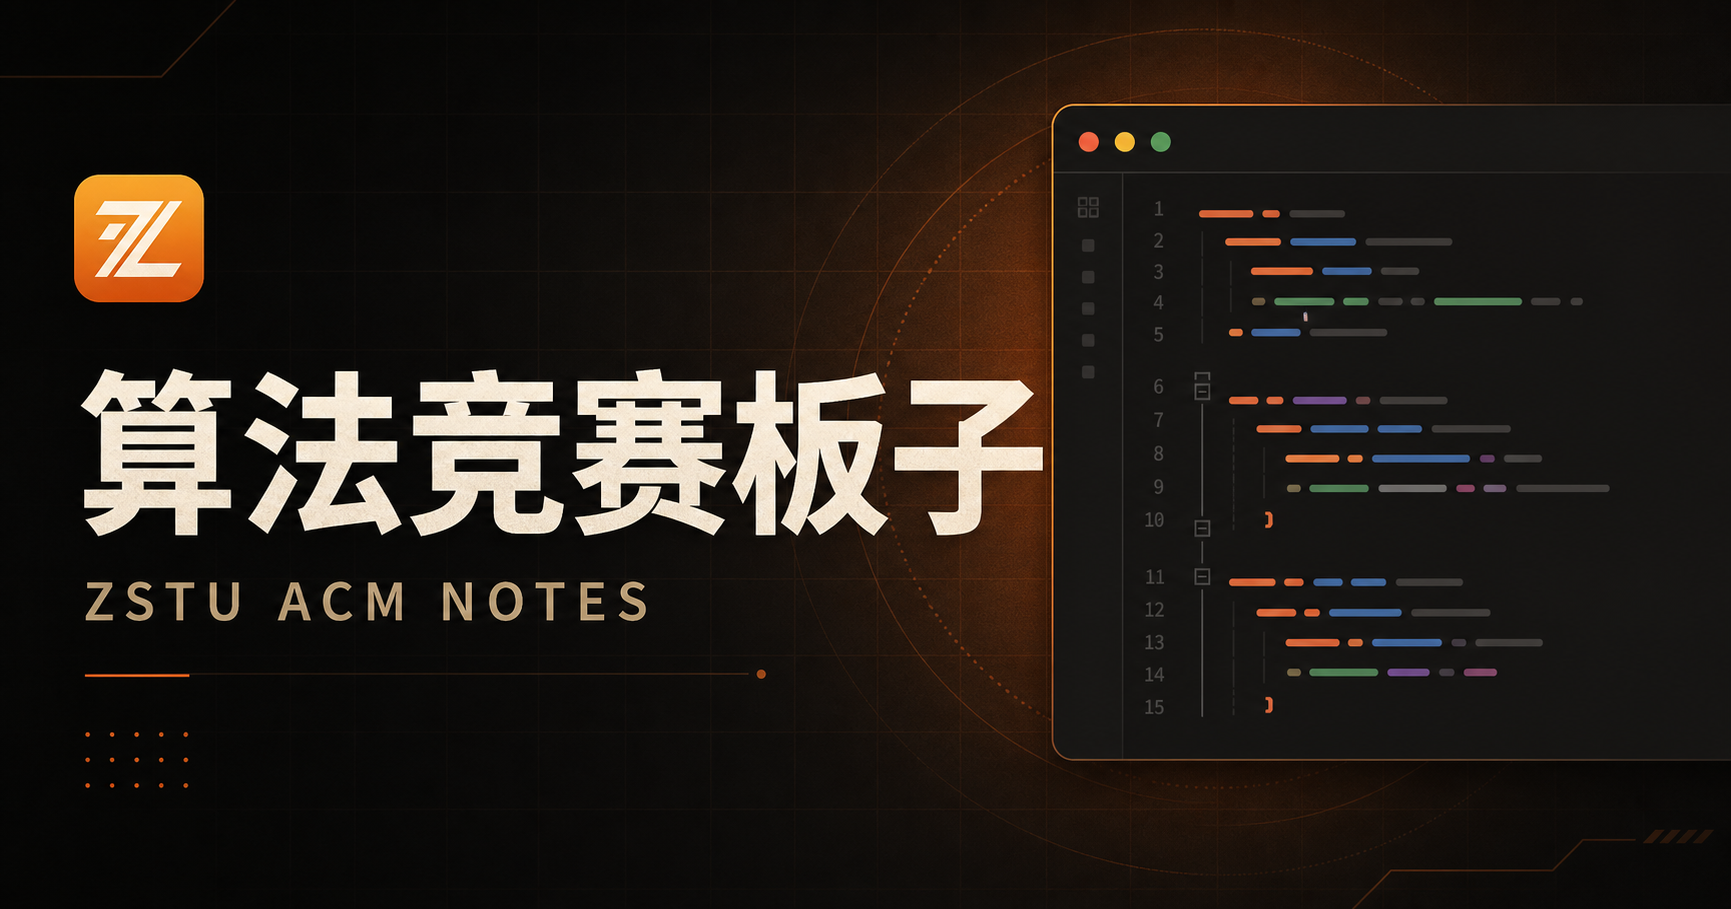
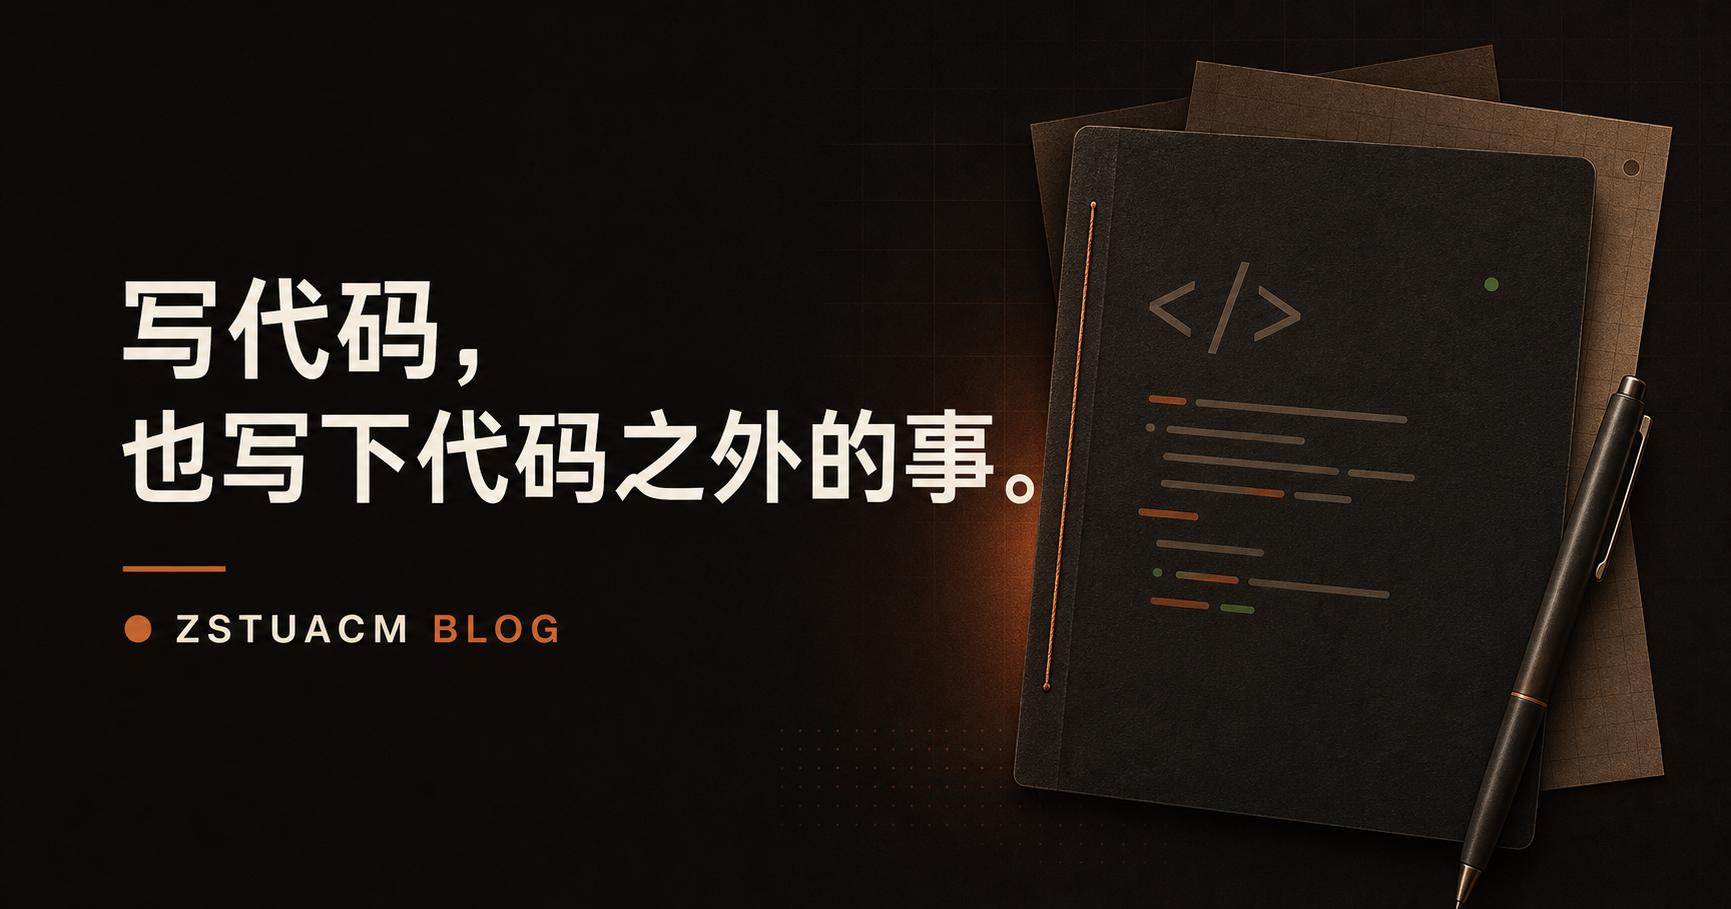
style: refine typography across blog

diff --git a/app/globals.css b/app/globals.css
@@ -38,14 +38,18 @@
 }
 
 * { box-sizing: border-box; }
-html { scroll-behavior: smooth; scroll-padding-top: 108px; }
+html { overflow-x: clip; scroll-behavior: smooth; scroll-padding-top: 108px; }
 body {
   margin: 0;
+  overflow-x: clip;
   background: var(--bg);
   color: var(--text);
-  font-family: Inter, "SF Pro Display", "PingFang SC", "Microsoft YaHei", system-ui, sans-serif;
+  font-family: Inter, "SF Pro Display", -apple-system, BlinkMacSystemFont, "PingFang SC", "Microsoft YaHei", sans-serif;
   font-size: 16px;
-  line-height: 1.7;
+  line-height: 1.5;
+  font-feature-settings: normal;
+  font-variation-settings: normal;
+  -webkit-font-smoothing: antialiased;
   text-rendering: optimizeLegibility;
 }
 a { color: inherit; text-decoration: none; }
@@ -78,7 +82,7 @@ button, input { font: inherit; }
   background: conic-gradient(from 45deg, #f1a05f, #df5a37, #f0bd58, #e05a3b, #f1a05f);
   box-shadow: 0 0 28px rgba(230, 110, 66, 0.28);
 }
-.site-header nav { display: flex; gap: 34px; color: var(--muted); font-size: 14px; }
+.site-header nav { display: flex; gap: 34px; color: var(--muted); font-size: 16px; line-height: 24px; }
 .site-header nav a { transition: color 160ms ease; }
 .site-header nav a:hover { color: var(--text); }
 .theme-toggle {
@@ -116,9 +120,9 @@ button, input { font: inherit; }
 }
 .eyebrow { margin: 0 0 20px; color: var(--accent); font-size: 11px; font-weight: 760; letter-spacing: 0.16em; }
 .status-dot { display: inline-block; width: 6px; height: 6px; margin-right: 7px; border-radius: 50%; background: var(--accent); box-shadow: 0 0 11px var(--accent); }
-.hero h1 { margin: 0; font-size: clamp(43px, 4.5vw, 60px); line-height: 1.11; letter-spacing: -0.055em; }
+.hero h1 { margin: 0; font-size: clamp(43px, 4.5vw, 60px); line-height: 1.12; font-weight: 700; letter-spacing: -0.04em; }
 .hero h1 span { color: var(--muted); }
-.hero-lede { max-width: 540px; margin: 27px 0 0; color: var(--muted); font-size: 17px; line-height: 1.9; }
+.hero-lede { max-width: 540px; margin: 27px 0 0; color: var(--muted); font-size: 17px; line-height: 1.8; }
 .hero-actions { display: flex; gap: 13px; margin-top: 35px; }
 .primary-button, .secondary-button { display: inline-flex; align-items: center; gap: 24px; height: 48px; padding: 0 21px; border-radius: 9px; font-size: 14px; font-weight: 700; }
 .primary-button { color: white; background: linear-gradient(135deg, #e8784c, #d45735); box-shadow: 0 12px 35px rgba(210, 80, 45, 0.2); }
@@ -149,14 +153,14 @@ button, input { font: inherit; }
 .latest-section, .topics-section, .about-section { padding: 92px 0; border-top: 1px solid var(--line); }
 .section-heading { display: flex; justify-content: space-between; align-items: end; margin-bottom: 34px; }
 .section-heading .eyebrow { margin-bottom: 9px; }
-.section-heading h2 { margin: 0; font-size: 34px; letter-spacing: -0.04em; }
+.section-heading h2 { margin: 0; font-size: 34px; font-weight: 650; line-height: 1.2; letter-spacing: -0.025em; }
 .section-heading > p { width: 330px; margin: 0; color: var(--muted); font-size: 14px; }
 .post-card { display: grid; grid-template-columns: 80px 1fr 48px; gap: 30px; padding: 37px; border: 1px solid var(--line); border-radius: 14px; background: linear-gradient(125deg, var(--panel), rgba(230,110,66,0.035)); transition: transform 200ms ease, border-color 200ms ease, box-shadow 200ms ease; }
 .post-card:hover { transform: translateY(-4px); border-color: rgba(230,110,66,0.4); box-shadow: 0 20px 60px rgba(0,0,0,0.12); }
 .post-number { color: var(--faint); font: 13px ui-monospace, monospace; }
 .post-tags { display: flex; gap: 8px; }
 .post-tags span { padding: 3px 8px; border-radius: 5px; color: var(--accent); background: var(--accent-soft); font-size: 9px; font-weight: 750; letter-spacing: 0.08em; }
-.post-main h3 { margin: 17px 0 9px; font-size: 27px; letter-spacing: -0.035em; }
+.post-main h3 { margin: 17px 0 9px; font-size: 27px; font-weight: 650; line-height: 1.3; letter-spacing: -0.02em; }
 .post-main > p { max-width: 690px; margin: 0; color: var(--muted); font-size: 15px; }
 .post-stats { display: flex; gap: 18px; margin-top: 21px; color: var(--faint); font-size: 11px; }
 .post-arrow { align-self: center; color: var(--accent); font-size: 24px; }
@@ -165,7 +169,7 @@ button, input { font: inherit; }
 .topic-card:hover { border-color: var(--line-strong); background: var(--panel-strong); }
 .topic-card > span { color: var(--faint); font: 10px ui-monospace, monospace; }.topic-card h3 { margin: 0; font-size: 15px; }.topic-card p { margin: 3px 0 0; color: var(--muted); font-size: 12px; }.topic-card b { color: var(--faint); font-weight: 400; }
 .writing-card { min-height: 150px; align-items: start; padding-top: 26px; }.writing-card small { display: block; margin-bottom: 10px; color: var(--accent); font: 9px ui-monospace, monospace; letter-spacing: 0.1em; }.writing-card h3 { font-size: 18px; }.writing-card p { max-width: 420px; margin-top: 7px; font-size: 13px; line-height: 1.65; }.writing-card b { padding-top: 2px; }
-.about-section > .eyebrow { margin-bottom: 22px; }.about-section > div { display: grid; grid-template-columns: 1fr 0.8fr; gap: 80px; align-items: end; }.about-section h2 { max-width: 650px; margin: 0; font-size: clamp(32px, 4vw, 49px); line-height: 1.22; letter-spacing: -0.05em; }.about-section div p { margin: 0; color: var(--muted); font-size: 15px; line-height: 1.9; }
+.about-section > .eyebrow { margin-bottom: 22px; }.about-section > div { display: grid; grid-template-columns: 1fr 0.8fr; gap: 80px; align-items: end; }.about-section h2 { max-width: 650px; margin: 0; font-size: clamp(32px, 4vw, 49px); font-weight: 650; line-height: 1.24; letter-spacing: -0.03em; }.about-section div p { margin: 0; color: var(--muted); font-size: 16px; line-height: 1.75; }
 .site-footer { display: flex; justify-content: space-between; align-items: center; padding: 40px 0 55px; border-top: 1px solid var(--line); color: var(--faint); font-size: 11px; }
 
 .reading-progress { position: fixed; inset: 0 auto auto 0; z-index: 100; height: 2px; background: linear-gradient(90deg, #e65d38, #f1a050); box-shadow: 0 0 11px var(--accent); transition: width 80ms linear; }
@@ -174,38 +178,38 @@ button, input { font: inherit; }
 .docs-left { padding-right: 23px; border-right: 1px solid var(--line); }
 .docs-search { height: 46px; display: grid; grid-template-columns: 22px 1fr auto; align-items: center; gap: 7px; padding: 0 12px; margin-bottom: 27px; border: 1px solid var(--line); border-radius: 10px; background: var(--panel); color: var(--faint); }
 .docs-search input { width: 100%; border: 0; outline: 0; background: transparent; color: var(--text); font-size: 14px; }.docs-search input::placeholder { color: var(--faint); }.docs-search kbd { padding: 2px 6px; border: 1px solid var(--line-strong); border-radius: 4px; font-size: 10px; font-weight: 400; }
-.nav-kicker { margin: 0 0 11px 9px; color: var(--accent); font-size: 13px; font-weight: 720; }
+.nav-kicker { margin: 0 0 11px 9px; color: var(--accent); font-size: 14px; font-weight: 600; line-height: 20px; }
 .docs-left nav { display: grid; gap: 4px; }
-.docs-left nav a { padding: 9px 12px; border-radius: 8px; color: var(--muted); font-size: 14px; line-height: 1.5; transition: color 150ms ease, background 150ms ease; }
+.docs-left nav a { padding: 8px 12px; border-radius: 8px; color: var(--muted); font-size: 16px; font-weight: 400; line-height: 24px; transition: color 150ms ease, background 150ms ease; }
 .docs-left nav a:hover, .docs-left nav a.active { color: var(--accent); background: var(--accent-soft); }.docs-left nav a.nested { padding-left: 25px; }
-.nav-note { margin: 31px 9px 0; padding-top: 23px; border-top: 1px solid var(--line); }.nav-note span { color: var(--green); font-size: 12px; }.nav-note p { margin: 8px 0; color: var(--faint); font-size: 12px; line-height: 1.7; }
+.nav-note { margin: 31px 9px 0; padding-top: 23px; border-top: 1px solid var(--line); }.nav-note span { color: var(--green); font-size: 13px; }.nav-note p { margin: 8px 0; color: var(--faint); font-size: 13px; line-height: 1.65; }
 .docs-main { min-width: 0; }
-.breadcrumbs { display: flex; gap: 8px; margin-bottom: 31px; color: var(--faint); font-size: 13px; }.breadcrumbs a:hover { color: var(--accent); }
+.breadcrumbs { display: flex; gap: 8px; margin-bottom: 31px; color: var(--faint); font-size: 14px; line-height: 20px; }.breadcrumbs a:hover { color: var(--accent); }
 .article-header > .eyebrow { margin-bottom: 12px; }
-.article-header h1 { margin: 0; font-size: clamp(40px, 5vw, 58px); line-height: 1.12; letter-spacing: -0.055em; }
-.article-header > p:not(.eyebrow) { max-width: 650px; margin: 20px 0 0; color: var(--muted); font-size: 16px; line-height: 1.85; }
-.article-header > div { display: flex; gap: 18px; margin-top: 21px; color: var(--faint); font-size: 12px; }
+.article-header h1 { margin: 0; font-size: clamp(38px, 4vw, 48px); font-weight: 700; line-height: 1.14; letter-spacing: -0.025em; }
+.article-header > p:not(.eyebrow) { max-width: 680px; margin: 20px 0 0; color: var(--muted); font-size: 16px; line-height: 28px; }
+.article-header > div { display: flex; gap: 18px; margin-top: 21px; color: var(--faint); font-size: 13px; line-height: 20px; }
 .article-separator { height: 1px; margin: 37px 0 42px; background: var(--line); }
-.docs-right { padding: 3px 0 0 10px; }.docs-right > p { margin: 0 0 17px; color: var(--text); font-size: 14px; font-weight: 720; }.docs-right nav { display: grid; gap: 4px; border-left: 1px solid var(--line); }.docs-right a { margin-left: -1px; padding: 7px 0 7px 16px; border-left: 2px solid transparent; color: var(--faint); font-size: 12.5px; line-height: 1.5; transition: color 150ms ease, border-color 150ms ease; }.docs-right a.nested { padding-left: 23px; }.docs-right a:hover, .docs-right a.active { color: var(--accent); border-left-color: var(--accent); }
+.docs-right { padding: 3px 0 0 10px; }.docs-right > p { margin: 0 0 16px; color: var(--text); font-size: 14px; font-weight: 600; line-height: 20px; }.docs-right nav { display: grid; gap: 2px; border-left: 1px solid var(--line); }.docs-right a { margin-left: -1px; padding: 6px 0 6px 16px; border-left: 2px solid transparent; color: var(--faint); font-size: 14px; font-weight: 500; line-height: 20px; transition: color 150ms ease, border-color 150ms ease; }.docs-right a.nested { padding-left: 23px; }.docs-right a:hover, .docs-right a.active { color: var(--accent); border-left-color: var(--accent); }
 
-.markdown-body { color: var(--muted); font-size: 15px; line-height: 1.9; overflow-wrap: anywhere; }
-.markdown-body > h1 { margin: 72px 0 23px; padding-bottom: 15px; border-bottom: 1px solid var(--line); color: var(--text); font-size: 31px; line-height: 1.25; letter-spacing: -0.035em; }
+.markdown-body { color: var(--muted); font-size: 16px; line-height: 28px; overflow-wrap: anywhere; }
+.markdown-body > h1 { margin: 56px 0 24px; padding-bottom: 15px; border-bottom: 1px solid var(--line); color: var(--text); font-size: 36px; font-weight: 700; line-height: 40px; letter-spacing: normal; }
 .markdown-body > h1:first-child { margin-top: 0; }
-.markdown-body h2 { margin: 50px 0 17px; color: var(--text); font-size: 23px; line-height: 1.35; letter-spacing: -0.025em; }
-.markdown-body h3 { margin: 37px 0 14px; color: var(--text); font-size: 18px; line-height: 1.4; }
-.markdown-body h4 { margin: 28px 0 10px; color: var(--text); font-size: 15px; }
+.markdown-body h2 { margin: 40px 0 16px; color: var(--text); font-size: 30px; font-weight: 600; line-height: 36px; letter-spacing: normal; }
+.markdown-body h3 { margin: 32px 0 12px; color: var(--text); font-size: 24px; font-weight: 600; line-height: 32px; }
+.markdown-body h4 { margin: 28px 0 10px; color: var(--text); font-size: 20px; font-weight: 600; line-height: 28px; }
 .markdown-body h1::before, .markdown-body h2::before, .markdown-body h3::before { content: ""; display: block; height: 105px; margin-top: -105px; visibility: hidden; pointer-events: none; }
-.markdown-body p { margin: 13px 0; }
-.markdown-body strong { color: #d6cdc4; font-weight: 720; }:root[data-theme="light"] .markdown-body strong { color: #4b3f36; }
+.markdown-body p { margin: 0 0 16px; }
+.markdown-body strong { color: #d6cdc4; font-weight: 600; }:root[data-theme="light"] .markdown-body strong { color: #4b3f36; }
 .markdown-body a { color: var(--blue); border-bottom: 1px solid rgba(117,168,255,0.25); }
 .markdown-body ul, .markdown-body ol { margin: 14px 0; padding-left: 24px; }.markdown-body li { padding-left: 4px; margin: 5px 0; }.markdown-body li::marker { color: var(--accent); }
 .markdown-body blockquote { margin: 22px 0; padding: 11px 20px; border-left: 3px solid var(--accent); border-radius: 0 8px 8px 0; background: var(--accent-soft); color: var(--muted); }.markdown-body blockquote p { margin: 0; }
 .markdown-body :not(pre) > code { padding: 2px 6px; border: 1px solid var(--line); border-radius: 5px; color: #ef9d7d; background: var(--panel); font: 0.86em ui-monospace, "Cascadia Code", Consolas, monospace; }
 .markdown-body pre { position: relative; overflow: auto; margin: 20px 0 28px; padding: 22px 24px; border: 1px solid rgba(255,255,255,0.08); border-radius: 10px; background: var(--code-bg); box-shadow: inset 0 1px rgba(255,255,255,0.025); tab-size: 4; }
 .markdown-body pre::before { content: ""; display: block; width: 32px; height: 8px; margin-bottom: 18px; background: radial-gradient(circle at 4px 4px, #f06457 0 3px, transparent 3.5px), radial-gradient(circle at 16px 4px, #e8b74b 0 3px, transparent 3.5px), radial-gradient(circle at 28px 4px, #4fc979 0 3px, transparent 3.5px); }
-.markdown-body pre code { color: #d4d7df; background: transparent; font: 12.5px/1.75 ui-monospace, "Cascadia Code", Consolas, monospace; }
+.markdown-body pre code { color: #d4d7df; background: transparent; font: 13px/1.75 "SFMono-Regular", ui-monospace, "Cascadia Code", Consolas, monospace; }
 .hljs-keyword, .hljs-selector-tag, .hljs-literal { color: #d690e6; }.hljs-string, .hljs-regexp { color: #a8c97f; }.hljs-number, .hljs-symbol { color: #e3ad71; }.hljs-comment { color: #666b74; font-style: italic; }.hljs-title, .hljs-function { color: #78a9eb; }.hljs-type, .hljs-built_in { color: #e28b6f; }.hljs-meta { color: #8a91a3; }
-.markdown-body table { display: block; width: 100%; overflow-x: auto; margin: 22px 0; border-collapse: collapse; font-size: 12px; }.markdown-body th, .markdown-body td { min-width: 110px; padding: 10px 13px; border: 1px solid var(--line-strong); text-align: left; }.markdown-body th { color: var(--text); background: var(--panel); }.markdown-body hr { height: 1px; margin: 46px 0; border: 0; background: var(--line); }.markdown-body img { max-width: 100%; border-radius: 10px; }.katex-display { overflow-x: auto; overflow-y: hidden; padding: 8px 0; }
+.markdown-body table { display: block; width: 100%; overflow-x: auto; margin: 22px 0; border-collapse: collapse; font-size: 14px; line-height: 22px; }.markdown-body th, .markdown-body td { min-width: 110px; padding: 10px 13px; border: 1px solid var(--line-strong); text-align: left; }.markdown-body th { color: var(--text); background: var(--panel); }.markdown-body hr { height: 1px; margin: 46px 0; border: 0; background: var(--line); }.markdown-body img { max-width: 100%; border-radius: 10px; }.katex-display { overflow-x: auto; overflow-y: hidden; padding: 8px 0; }
 .article-footer { display: flex; justify-content: space-between; margin-top: 76px; padding: 28px 0; border-top: 1px solid var(--line); color: var(--faint); font-size: 12px; }.article-footer a { color: var(--accent); }
 
 .reveal { animation: rise-in 600ms cubic-bezier(.2,.7,.2,1) both; }.reveal-delay { animation-delay: 100ms; }
@@ -222,12 +226,12 @@ button, input { font: inherit; }
   .hero { min-height: auto; grid-template-columns: 1fr; gap: 56px; padding-top: 70px; }.hero::before { right: -330px; }.code-window { transform: none; }
   .section-heading { display: block; }.section-heading > p { width: auto; margin-top: 10px; }.topic-grid { grid-template-columns: 1fr; }.about-section > div { grid-template-columns: 1fr; gap: 22px; }
   .docs-shell { width: min(100% - 32px, 760px); display: block; padding-top: 28px; }.docs-left { position: static; max-height: none; margin-bottom: 34px; padding: 0 0 22px; border-right: 0; border-bottom: 1px solid var(--line); }.docs-left nav { grid-template-columns: repeat(4, 1fr); }.docs-left nav a { text-align: center; }.docs-left .nav-note { display: none; }
-  .article-header h1 { font-size: 42px; }
+  .article-header h1 { font-size: 40px; }
 }
 @media (max-width: 560px) {
   .site-header { height: 65px; }.brand small { display: none; }
   .hero { padding: 56px 0; }.hero h1 { font-size: 41px; }.hero-lede { font-size: 15px; }.hero-actions { align-items: stretch; flex-direction: column; }.primary-button, .secondary-button { justify-content: space-between; }
   .hero-code { min-height: 240px; padding: 24px 19px; font-size: 11px; }.window-tabs { gap: 15px; }
   .latest-section, .topics-section, .about-section { padding: 65px 0; }.post-card { grid-template-columns: 1fr 24px; padding: 25px; }.post-number { display: none; }.post-main h3 { font-size: 23px; }.post-stats { flex-wrap: wrap; }.site-footer { align-items: flex-start; gap: 20px; }.note-paper { min-height: 300px; padding: 28px 22px; }
-  .docs-left nav { grid-template-columns: repeat(2, 1fr); }.docs-main { width: 100%; }.article-header h1 { font-size: 36px; }.article-header > div { flex-wrap: wrap; }.markdown-body { font-size: 14px; }.markdown-body pre { margin-left: -10px; margin-right: -10px; padding: 18px 16px; }.markdown-body pre code { font-size: 11px; }.article-footer { align-items: flex-start; flex-direction: column; gap: 8px; }
+  .docs-left nav { grid-template-columns: repeat(2, 1fr); }.docs-left nav a { font-size: 15px; line-height: 22px; }.docs-main { width: 100%; }.article-header h1 { font-size: 36px; }.article-header > div { flex-wrap: wrap; }.markdown-body { font-size: 15px; line-height: 26px; }.markdown-body > h1 { font-size: 31px; line-height: 36px; }.markdown-body h2 { font-size: 26px; line-height: 32px; }.markdown-body h3 { font-size: 21px; line-height: 28px; }.markdown-body pre { margin-left: -10px; margin-right: -10px; padding: 18px 16px; }.markdown-body pre code { font-size: 11px; }.article-footer { align-items: flex-start; flex-direction: column; gap: 8px; }
 }

diff --git a/app/layout.tsx b/app/layout.tsx
@@ -11,7 +11,7 @@ export const metadata: Metadata = {
     description: "写代码，也写下代码之外的事。",
     type: "website",
     locale: "zh_CN",
-    images: [{ url: "/og.svg", width: 1200, height: 630, alt: "写代码，也写下代码之外的事 · ZSTUACM Blog" }],
+    images: [{ url: "/og.png", width: 1731, height: 909, alt: "写代码，也写下代码之外的事 · ZSTUACM Blog" }],
   },
   twitter: { card: "summary_large_image", images: ["/og.png"] },
 };
